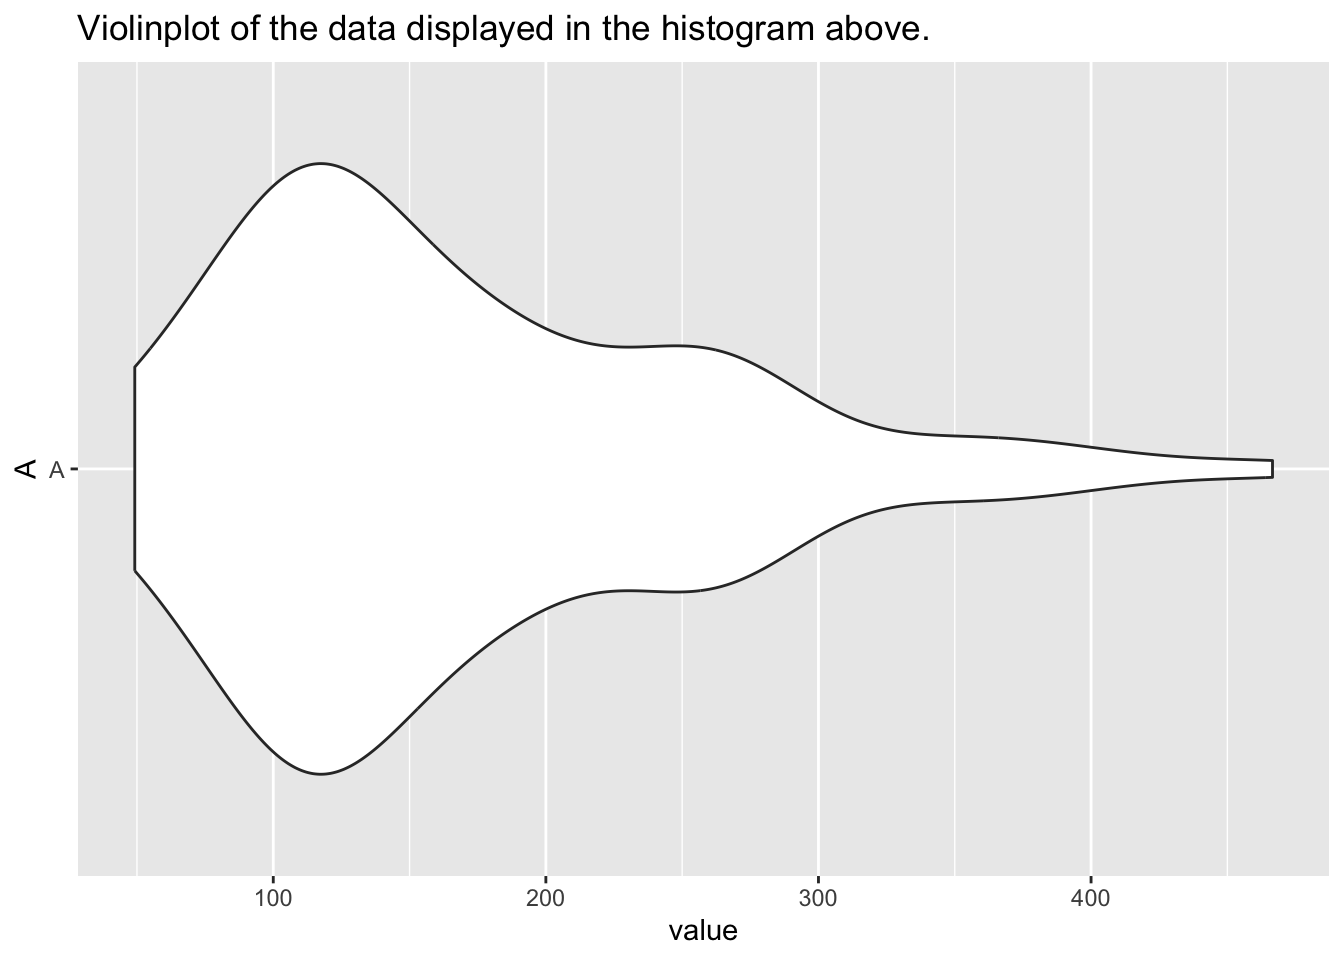
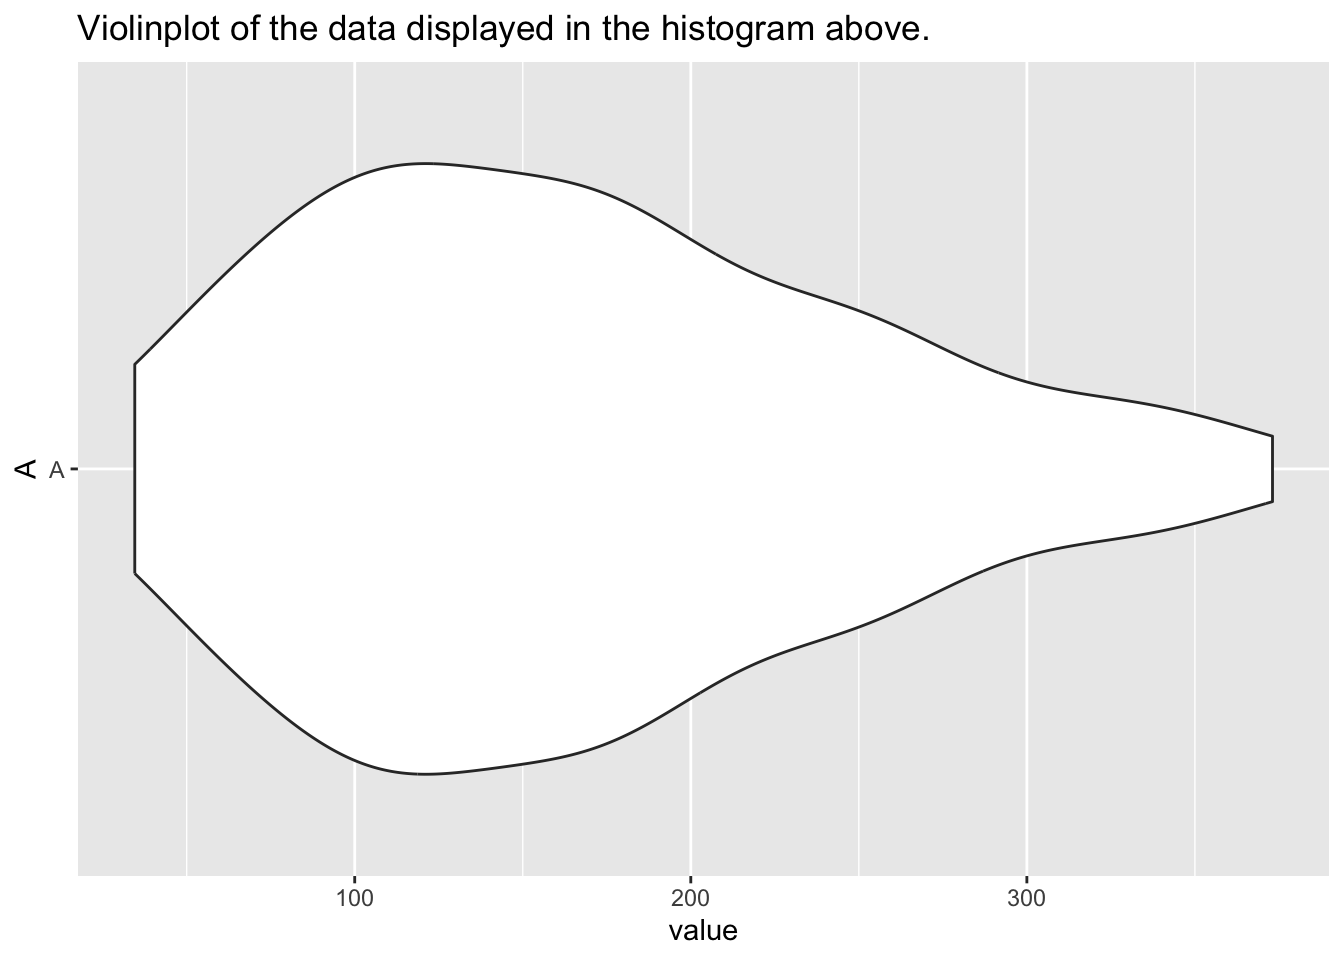
Change 2

diff --git a/exercise_01_sta426_staebler_jann.html b/exercise_01_sta426_staebler_jann.html
@@ -173,7 +173,7 @@ Attaching package: 'dplyr'</code></pre>
 </section>
 <section id="part-iii-reporting-results" class="level2">
 <h2 class="anchored" data-anchor-id="part-iii-reporting-results">Part III: Reporting results</h2>
-<p>The rounded mean of the sampled values is <strong>169</strong> and the rounded standard deviation is <strong>87</strong>.</p>
+<p>The rounded mean of the sampled values is <strong>166</strong> and the rounded standard deviation is <strong>81</strong>.</p>
 </section>
 
 </main>
